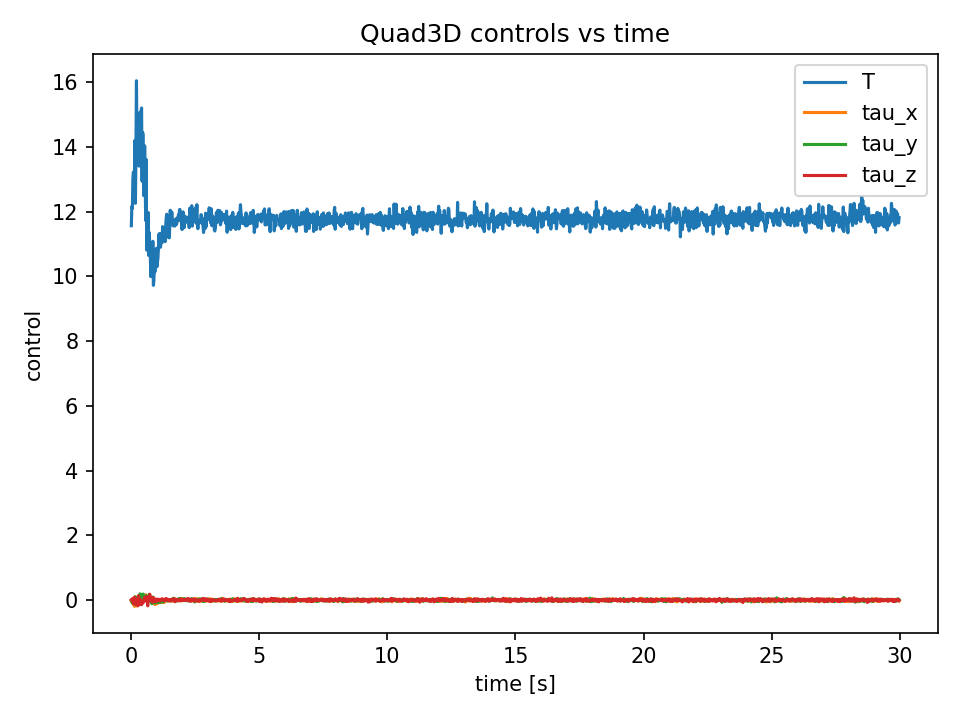
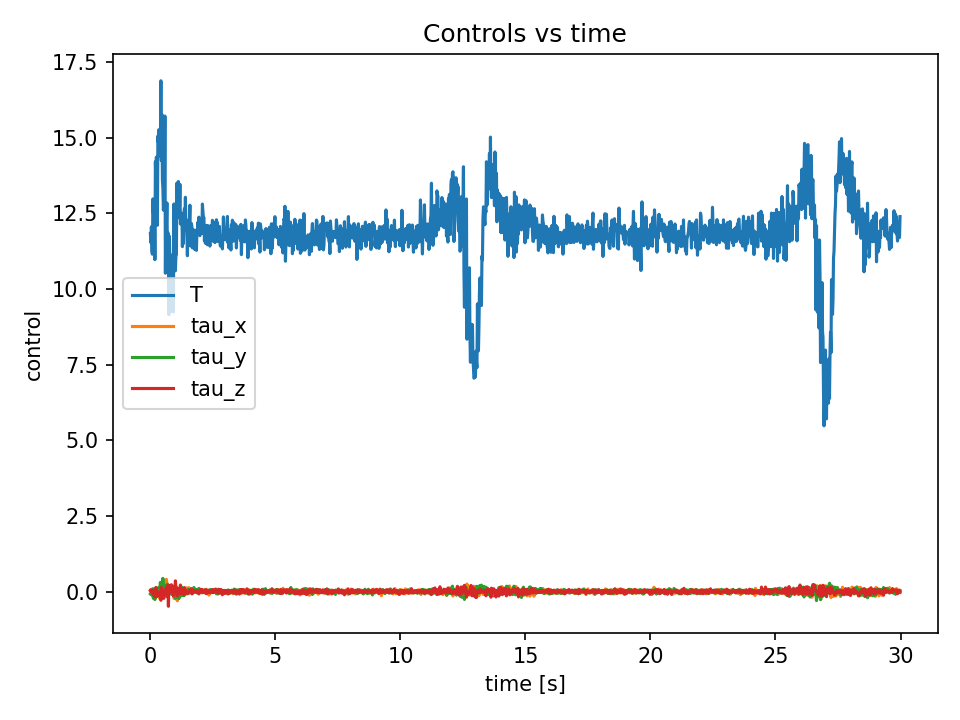
Switch reference to 3D figure-8 and add XY/XZ/YZ + 3D trajectory visuals

diff --git a/experiments/demo_quad3d_mppi_avoid.py b/experiments/demo_quad3d_mppi_avoid.py
@@ -6,7 +6,11 @@ import jax.numpy as jnp
 from jax_mppi_quad3d.dynamics import Quad3DConfig, step_euler, clamp_u
 from jax_mppi_quad3d.reference import make_ref_horizon
 from jax_mppi_quad3d.mppi import MPPIConfig3D, MPPIQuad3D
-from jax_mppi_quad3d.viz import ensure_dir, save_frame_xy, make_gif, plot_xyz, plot_inputs, plot_cost
+from jax_mppi_quad3d.viz import (
+    ensure_dir, save_frame_xy, make_gif,
+    plot_xyz, plot_inputs, plot_cost,
+    plot_projections, plot_trajectory_3d
+)
 
 def main():
     outdir = "assets"
@@ -18,7 +22,7 @@ def main():
     os.makedirs(frames_dir, exist_ok=True)
 
     quad = Quad3DConfig()
-    mppi_cfg = MPPIConfig3D(H=40, N=1024, dt=0.02)
+    mppi_cfg = MPPIConfig3D(H=45, N=1024, dt=0.02)
     ctrl = MPPIQuad3D(mppi_cfg, quad, seed=0)
 
     # Spherical obstacles (cx,cy,cz,r)
@@ -30,7 +34,7 @@ def main():
     spheres_j = jnp.array(spheres)
 
     # Initial state: p,v,q,w
-    p0 = jnp.array([2.8, 0.0, 0.8], dtype=jnp.float32)
+    p0 = jnp.array([2.5, 0.0, 1.0], dtype=jnp.float32)
     v0 = jnp.zeros(3, dtype=jnp.float32)
     q0 = jnp.array([1.0, 0.0, 0.0, 0.0], dtype=jnp.float32)
     w0 = jnp.zeros(3, dtype=jnp.float32)
@@ -60,9 +64,7 @@ def main():
         Pref_h = make_ref_horizon(t, dt, mppi_cfg.H)
         u_raw, bestJ = ctrl.act(x, Pref_h, spheres_j)
 
-        # Clamp for logging + stepping
         u = clamp_u(u_raw, quad)
-
         x = step_euler(x, u, dt, quad)
 
         P[k] = np.array(x[0:3])
@@ -74,13 +76,23 @@ def main():
             frame_path = os.path.join(frames_dir, f"frame_{frame_idx:06d}.png")
             save_frame_xy(
                 P[:k+1], Pref[:k+1], spheres, P[k],
-                frame_path, title=f"Quad3D MPPI Avoid | t={t:.2f}s"
+                frame_path, title=f"Quad3D MPPI Avoid (Figure-8 ref) | t={t:.2f}s"
             )
             frame_idx += 1
 
+    # Existing plots
     plot_xyz(thist, P, os.path.join(outdir, "quad3d_xyz.png"))
     plot_inputs(thist, Uhist, os.path.join(outdir, "quad3d_inputs.png"))
     plot_cost(thist, Jhist, os.path.join(outdir, "quad3d_cost.png"))
+
+    # New visuals
+    plot_projections(
+        P, Pref,
+        os.path.join(outdir, "quad3d_xy.png"),
+        os.path.join(outdir, "quad3d_xz.png"),
+        os.path.join(outdir, "quad3d_yz.png"),
+    )
+    plot_trajectory_3d(P, Pref, os.path.join(outdir, "quad3d_traj3d.png"))
 
     gif_path = os.path.join(outdir, "demo_quad3d_xy.gif")
     make_gif(frames_dir, gif_path, fps=25)
@@ -90,6 +102,8 @@ def main():
     print(" - assets/quad3d_xyz.png")
     print(" - assets/quad3d_inputs.png")
     print(" - assets/quad3d_cost.png")
+    print(" - assets/quad3d_xy.png / quad3d_xz.png / quad3d_yz.png")
+    print(" - assets/quad3d_traj3d.png")
 
 if __name__ == "__main__":
     main()

diff --git a/src/jax_mppi_quad3d/viz.py b/src/jax_mppi_quad3d/viz.py
@@ -41,7 +41,7 @@ def plot_xyz(t: np.ndarray, P: np.ndarray, outpath: str):
     plt.plot(t, P[:,2], label="z")
     plt.xlabel("time [s]")
     plt.ylabel("position [m]")
-    plt.title("Quad3D position vs time")
+    plt.title("Position vs time")
     plt.legend()
     plt.tight_layout()
     plt.savefig(outpath, dpi=150)
@@ -55,7 +55,7 @@ def plot_inputs(t: np.ndarray, U: np.ndarray, outpath: str):
     plt.plot(t, U[:,3], label="tau_z")
     plt.xlabel("time [s]")
     plt.ylabel("control")
-    plt.title("Quad3D controls vs time")
+    plt.title("Controls vs time")
     plt.legend()
     plt.tight_layout()
     plt.savefig(outpath, dpi=150)
@@ -67,6 +67,54 @@ def plot_cost(t: np.ndarray, J: np.ndarray, outpath: str):
     plt.xlabel("time [s]")
     plt.ylabel("best cost")
     plt.title("MPPI best cost vs time")
+    plt.tight_layout()
+    plt.savefig(outpath, dpi=150)
+    plt.close()
+
+def plot_projections(P: np.ndarray, Pref: np.ndarray, out_xy: str, out_xz: str, out_yz: str):
+    # XY
+    plt.figure()
+    plt.plot(Pref[:,0], Pref[:,1], "--", label="ref")
+    plt.plot(P[:,0], P[:,1], label="quad")
+    plt.axis("equal")
+    plt.xlabel("x [m]"); plt.ylabel("y [m]")
+    plt.title("Trajectory projection: XY")
+    plt.legend(); plt.tight_layout()
+    plt.savefig(out_xy, dpi=150)
+    plt.close()
+
+    # XZ
+    plt.figure()
+    plt.plot(Pref[:,0], Pref[:,2], "--", label="ref")
+    plt.plot(P[:,0], P[:,2], label="quad")
+    plt.axis("equal")
+    plt.xlabel("x [m]"); plt.ylabel("z [m]")
+    plt.title("Trajectory projection: XZ")
+    plt.legend(); plt.tight_layout()
+    plt.savefig(out_xz, dpi=150)
+    plt.close()
+
+    # YZ
+    plt.figure()
+    plt.plot(Pref[:,1], Pref[:,2], "--", label="ref")
+    plt.plot(P[:,1], P[:,2], label="quad")
+    plt.axis("equal")
+    plt.xlabel("y [m]"); plt.ylabel("z [m]")
+    plt.title("Trajectory projection: YZ")
+    plt.legend(); plt.tight_layout()
+    plt.savefig(out_yz, dpi=150)
+    plt.close()
+
+def plot_trajectory_3d(P: np.ndarray, Pref: np.ndarray, outpath: str):
+    from mpl_toolkits.mplot3d import Axes3D  # noqa: F401
+
+    fig = plt.figure()
+    ax = fig.add_subplot(111, projection="3d")
+    ax.plot(Pref[:,0], Pref[:,1], Pref[:,2], linestyle="--", label="ref")
+    ax.plot(P[:,0], P[:,1], P[:,2], label="quad")
+    ax.set_xlabel("x [m]"); ax.set_ylabel("y [m]"); ax.set_zlabel("z [m]")
+    ax.set_title("3D trajectory")
+    ax.legend()
     plt.tight_layout()
     plt.savefig(outpath, dpi=150)
     plt.close()

diff --git a/src/jax_mppi_quad3d/reference.py b/src/jax_mppi_quad3d/reference.py
@@ -1,16 +1,27 @@
 from __future__ import annotations
 import jax.numpy as jnp
 
-def helix_ref(t: jnp.ndarray) -> jnp.ndarray:
-    # smooth 3D path: circle in XY + gentle z oscillation
-    R = 2.5
-    w = 0.35
-    x = R * jnp.cos(w * t)
-    y = R * jnp.sin(w * t)
-    z = 1.2 + 0.6 * jnp.sin(0.5 * w * t)
+def fig8_ref_3d(t: jnp.ndarray) -> jnp.ndarray:
+    """
+    Figure-8 in XY with mild Z oscillation.
+      x = a sin(w t)
+      y = b sin(w t) cos(w t)
+      z = z0 + z_amp sin(0.5 w t)
+    """
+    a = 2.5
+    b = 1.8
+    w = 0.45
+
+    x = a * jnp.sin(w * t)
+    y = b * jnp.sin(w * t) * jnp.cos(w * t)
+
+    z0 = 1.2
+    z_amp = 0.25
+    z = z0 + z_amp * jnp.sin(0.5 * w * t)
+
     return jnp.array([x, y, z], dtype=jnp.float32)
 
 def make_ref_horizon(t0: float, dt: float, H: int) -> jnp.ndarray:
     ts = t0 + dt * jnp.arange(H + 1)
-    Pref = jnp.stack([helix_ref(ts[i]) for i in range(H + 1)], axis=0)
+    Pref = jnp.stack([fig8_ref_3d(ts[i]) for i in range(H + 1)], axis=0)
     return Pref
